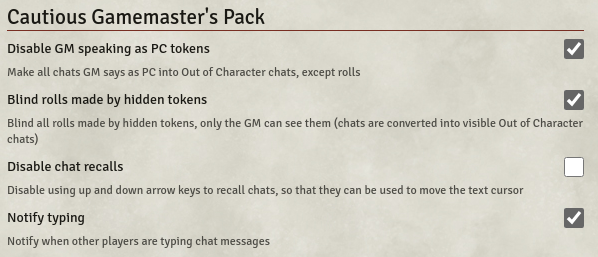
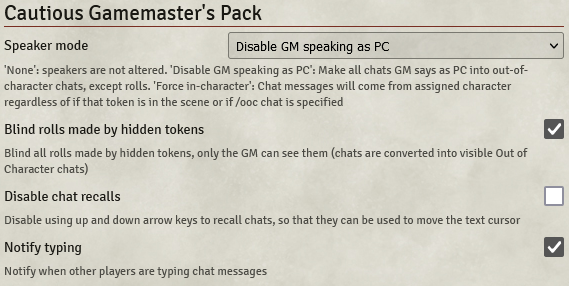
Updated README.md and settings.png

Changed region(s): [[0.0, 0.0, 1.0, 0.965], [0.9262, 0.5914, 1.0, 0.7471], [0.9262, 0.8093, 1.0, 0.9027]]

diff --git a/README.md b/README.md
@@ -15,15 +15,13 @@ Please note that v0.2.0 was called "Cautious Gamemaster's Pack 2", but since own
 
 ![](settings.png)
 
-* Disable GM from speaking as PC tokens - If the GM has a PC token selected and types a message in the chat box, this will prevent the message appearing as if it came from that PC.  It will be sent as an out-of-character message instead.
-* Blind rolls made by hidden tokens - This makes all rolls made by hidden tokens into blind rolls.
-* Disable Chat Recall - Disable using up/down arrow keys to recall previous chats so that they can be used to move the text cursor.
-
-## Typing Notifications
-
-![](notify_typing.gif)
-
-* Notify whether the other players are typing chat messages (Toggle)
+* **Speaker mode**
+  * **None**: Speakers are not altered.
+  * **Disable GM speaking as PC**: If the GM has a PC token selected and types a message in the chat box, this will prevent the message appearing as if it came from that PC.  It will be sent as an out-of-character message instead.
+  * **Force in-character**: Chat messages will come from assigned character regardless of whether that token is in the scene, or if `/ooc` chat is specified.
+* **Blind rolls made by hidden tokens** - This makes all rolls made by hidden tokens into blind rolls.
+* **Disable Chat Recalls** - Disable using up/down arrow keys to recall previous chats so that they can be used to move the text cursor.
+* **Notify typing** - Notify whether the other players are typing chat messages.<br>![](notify_typing.gif)
 
 ## Additional Chat Commands
 
